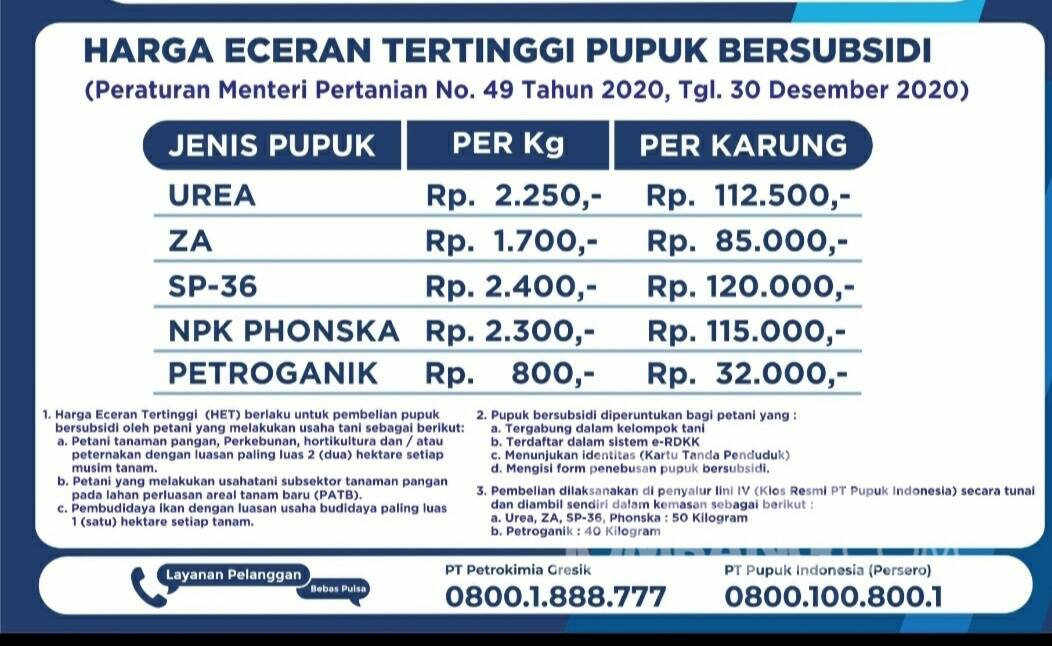
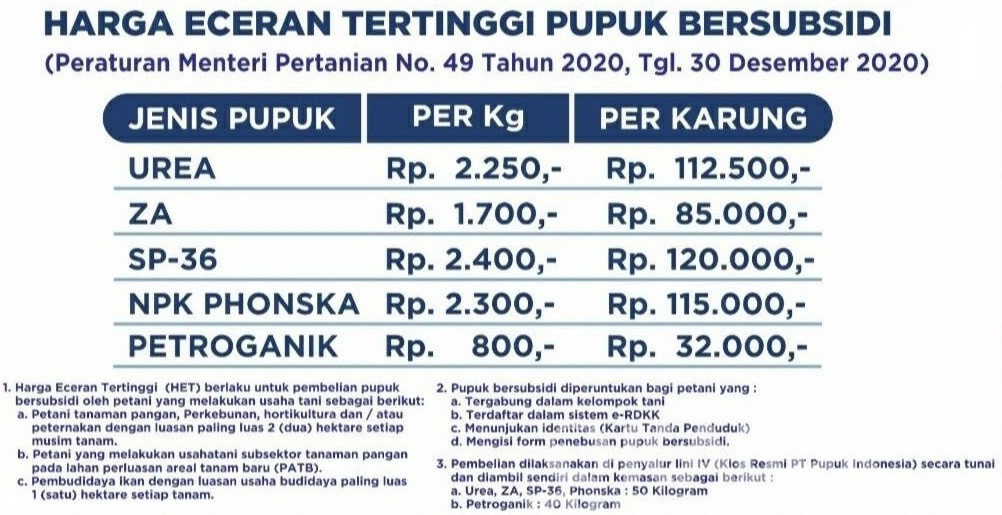
Foto

diff --git a/index.php b/index.php
@@ -220,14 +220,15 @@ $get_kelompok = mysqli_query($conn, "SELECT * FROM kelompok");
     </div>
   </section>
 
-  <section class="ftco-counter img ftco-section ftco-no-pt ftco-no-pb" id="about-section">
+  <section class="ftco-counter img ftco-section ftco-no-pt ftco-no-pb" id="about-section" style="z-index: 999;">
     <div class="container">
       <div class="row d-flex">
-        <div class="col-md-6 col-lg-5 d-flex">
-          <div class="img d-flex align-self-stretch align-items-center" style="background-image:url(images/harga-pupuk.jpg);">
-          </div>
+        <div class="col-md-6 col-lg-6 d-flex">
+          <!-- <div class="img d-flex align-self-stretch align-items-center" style="background-image:url(images/harga-pupuk.jpg);">
+          </div> -->
+          <img src="images/harga-pupuk.jpg" alt="" style="width: 100%;">
         </div>
-        <div class="col-md-6 col-lg-7 pl-lg-5 py-5">
+        <div class="col-md-6 col-lg-6 pl-lg-5 py-5">
           <div class="py-md-5">
             <div class="row justify-content-start pb-3">
               <div class="col-md-12 heading-section ftco-animate">
